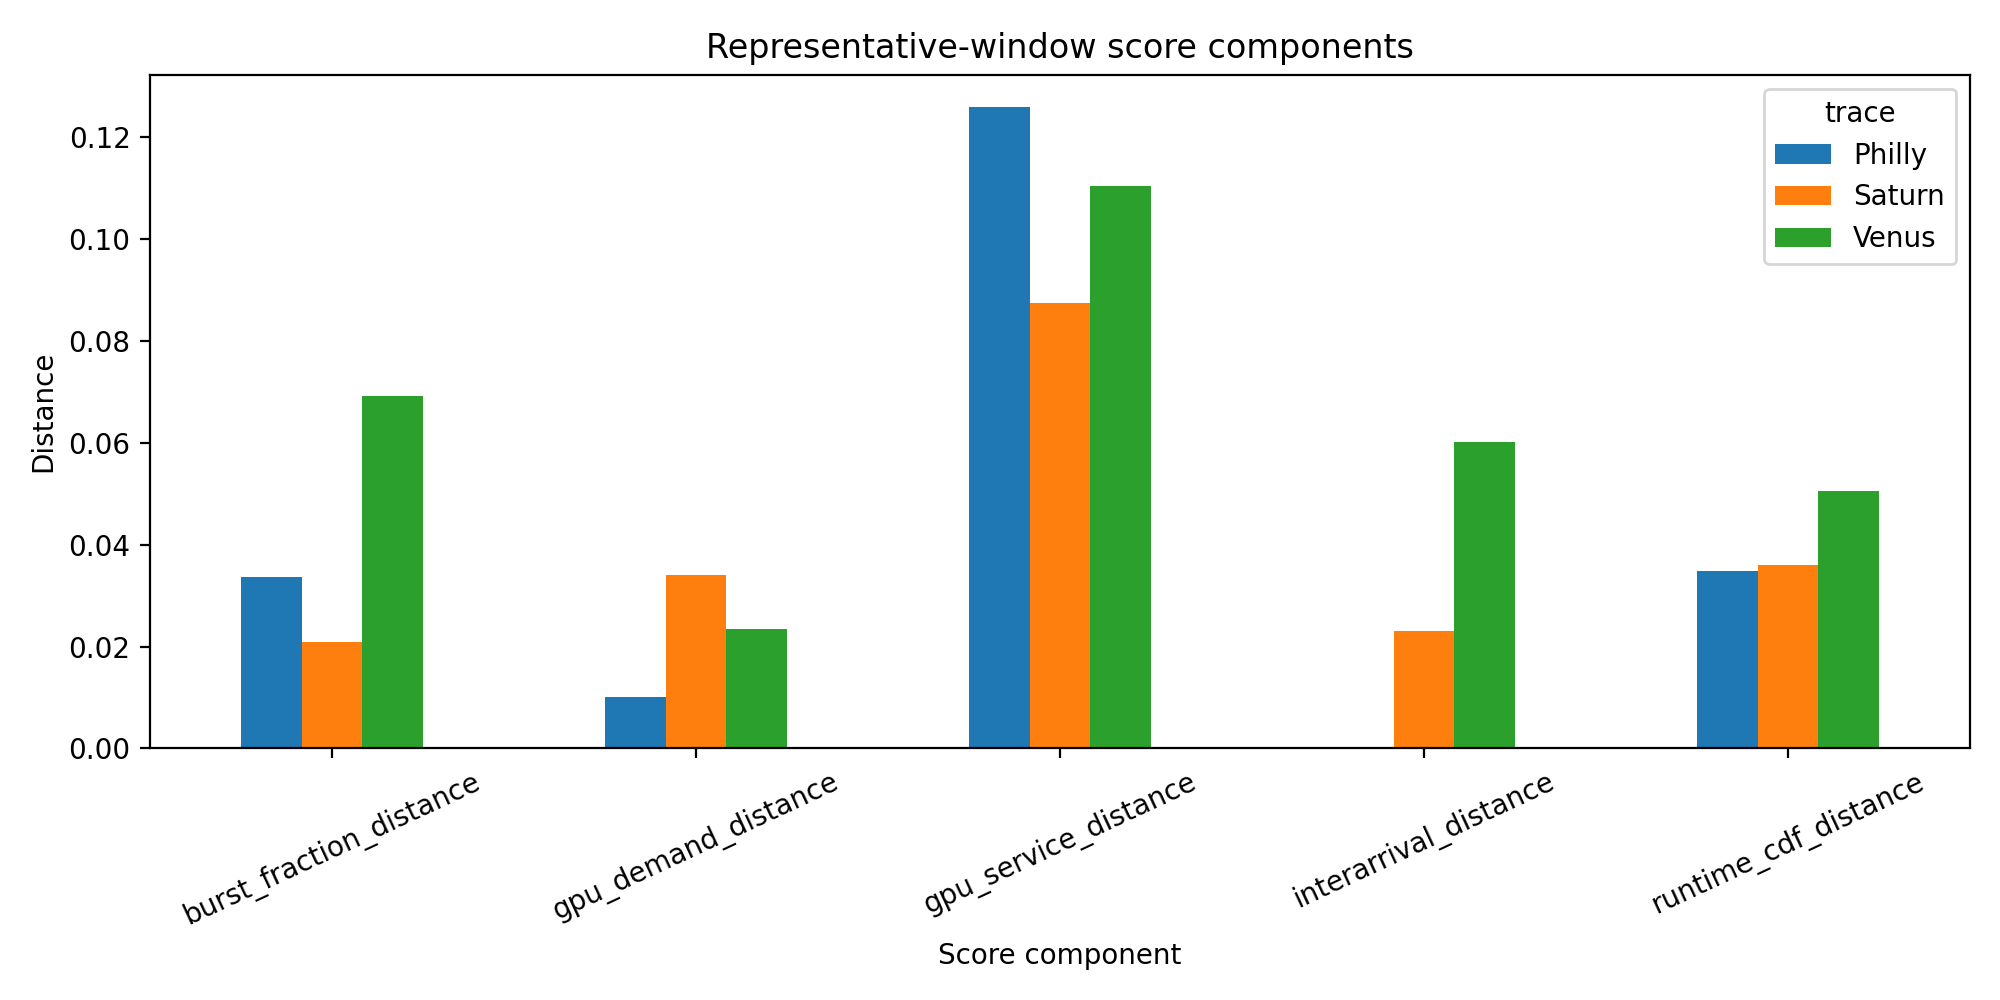
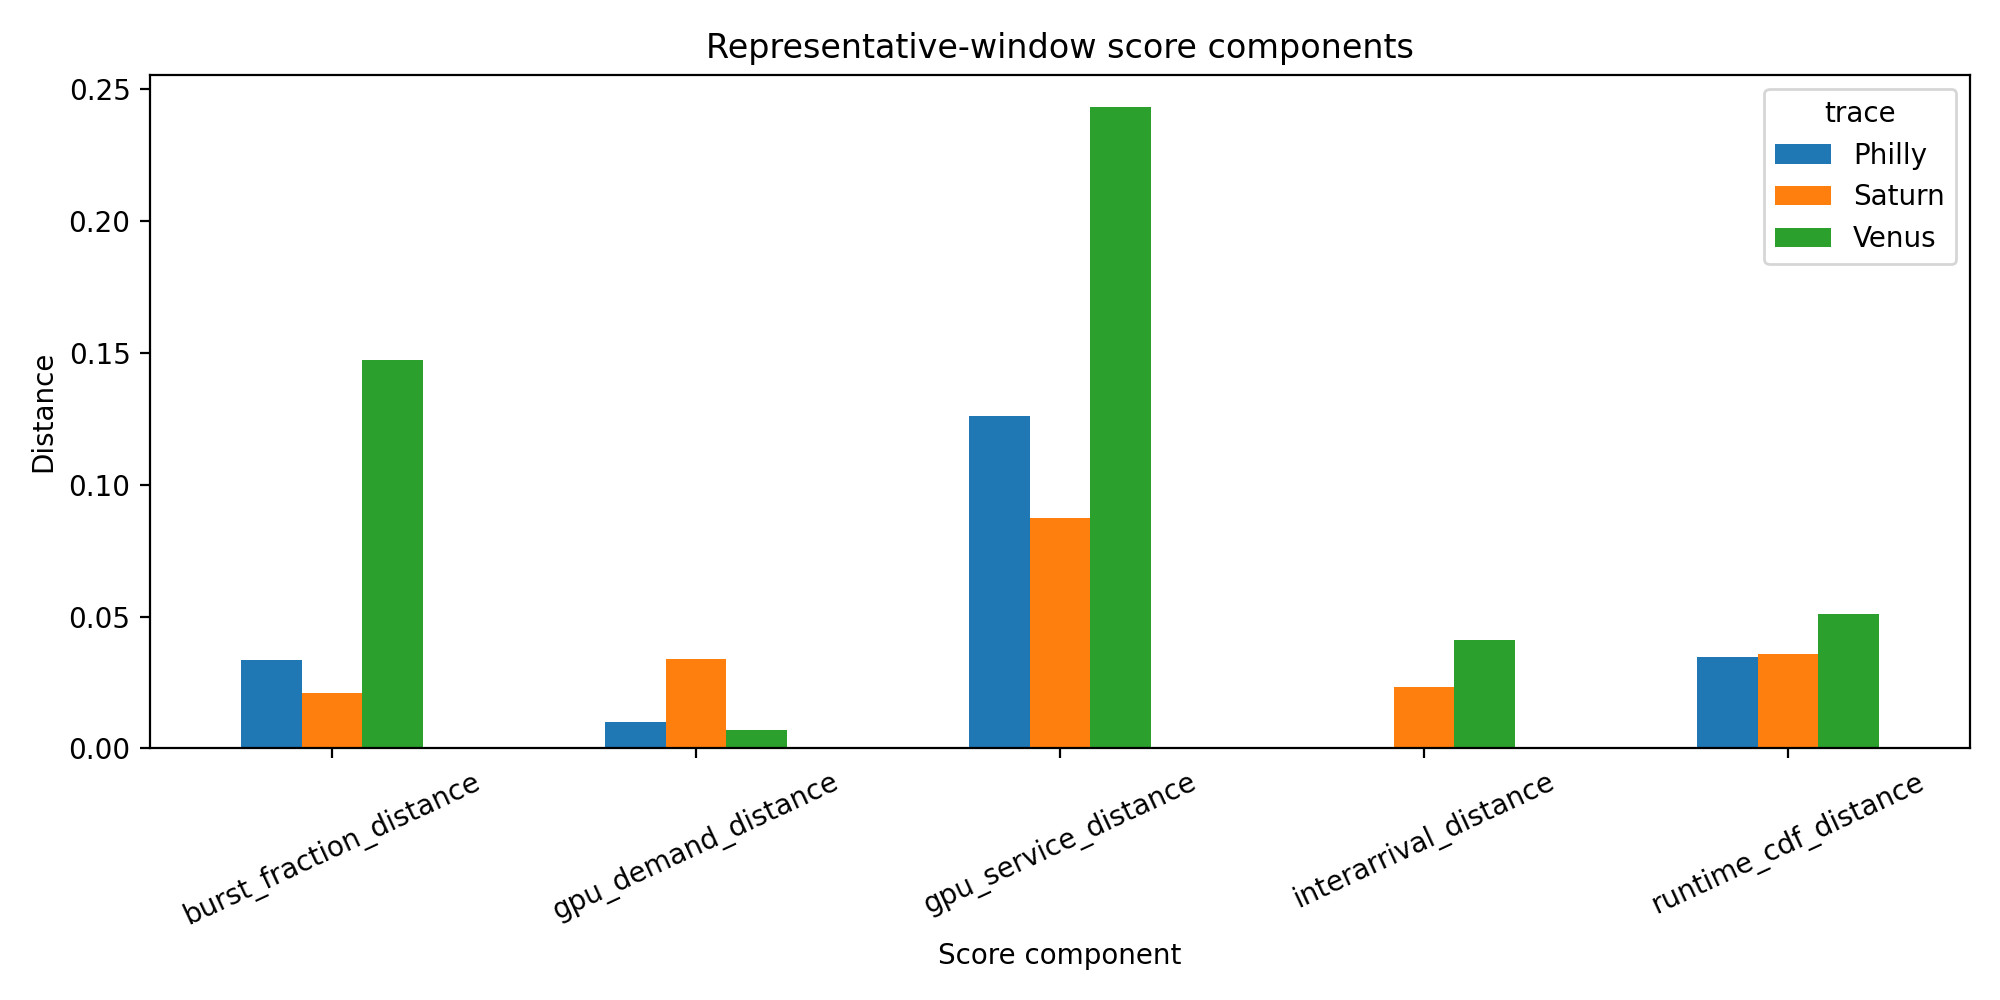
feat(pipeline): publish portable representative trace evidence

diff --git a/src/trace_mapper/pipeline.py b/src/trace_mapper/pipeline.py
@@ -52,6 +52,22 @@ def _resolve_path(root_dir: Path, value: str | Path) -> Path:
     return (root_dir / path).resolve()
 
 
+def _portable_path(
+    path: Path,
+    *,
+    root_dir: Path,
+) -> str:
+    resolved_path = path.resolve()
+    resolved_root = root_dir.resolve()
+
+    try:
+        return resolved_path.relative_to(
+            resolved_root
+        ).as_posix()
+    except ValueError:
+        return resolved_path.name
+    
+
 def load_pipeline_config(config_path: Path) -> dict[str, Any]:
     config_path = config_path.resolve()
 
@@ -503,14 +519,22 @@ def run_pipeline(config_path: Path) -> dict[str, Any]:
     )
 
     pipeline_summary = {
-        "pipeline_config": str(
-            config["config_path"]
+        "pipeline_config": _portable_path(
+            config["config_path"],
+            root_dir=root_dir,
         ),
-        "root_dir": str(root_dir),
-        "catalog_path": str(catalog_path),
+        "root_dir": ".",
+        "catalog_path": _portable_path(
+            catalog_path,
+            root_dir=root_dir,
+        ),
         "catalog_workload_count": int(len(catalog)),
         "manifest_paths": [
-            str(path) for path in manifest_paths
+            _portable_path(
+                path,
+                root_dir=root_dir,
+            )
+            for path in manifest_paths
         ],
         "validation": validation_result,
     }

diff --git a/README.md b/README.md
@@ -92,3 +92,51 @@ python -m compileall -q src tests
 ## Scope
 
 The included configurations target server-level experiments with 1-GPU and 2-GPU jobs. Larger GPU demands can be enabled when the workload catalog and target testbed support them. Exclusive-execution results are planning estimates, not measured scheduler outcomes.
+
+
+## One-Command Workflow
+
+Copy the public pipeline template to a machine-specific local configuration:
+
+```bash
+cp \
+  examples/configs/full_pipeline.example.yaml \
+  examples/configs/full_pipeline.local.yaml
+```
+
+Edit `examples/configs/full_pipeline.local.yaml` and set:
+
+- the one-GPU and two-GPU solo-profile CSV paths;
+- the workload project root;
+- any machine-specific input paths.
+
+Then run the complete workflow:
+
+```bash
+trace-mapper run-pipeline \
+  --config examples/configs/full_pipeline.local.yaml
+```
+
+The pipeline:
+
+1. builds the workload catalog from solo profiling results;
+2. characterizes the configured production traces;
+3. selects representative Philly, Saturn, and Venus windows;
+4. maps source jobs to executable workloads;
+5. generates per-trace and cross-trace reports;
+6. creates fidelity figures and machine-readable CSV artifacts;
+7. validates job count, runtime-CDF fidelity, GPU-demand fidelity, and 2-GPU workload coverage.
+
+The local pipeline configuration is intentionally ignored by Git because it may contain machine-specific absolute paths. Commit only `examples/configs/full_pipeline.example.yaml`.
+
+## Trace Evaluation Evidence
+
+The generated documentation exposes the complete evidence chain used to validate the traces:
+
+- [Production trace characterization](docs/trace_characterization.md)
+- [Generated trace comparison](docs/generated_traces/generated_trace_comparison.md)
+- [Representative trace fidelity](docs/generated_traces/representative_fidelity.md)
+- [Pipeline validation summary](docs/generated_traces/pipeline_summary.json)
+- [Raw trace sources and citations](data/README.md)
+
+The fidelity report compares each full eligible source population with its selected 60-job window and mapped executable trace. It reports GPU-demand proportions, runtime-CDF buckets, interarrival behavior, representativeness scores, and suite-level coverage of the available 2-GPU workloads.

diff --git a/docs/generated_traces/representative_fidelity.md b/docs/generated_traces/representative_fidelity.md
@@ -8,7 +8,7 @@ This report compares each full eligible production population, selected source w
 |---|---:|---:|---:|---:|---:|---:|---:|
 | Philly | 0.0353 | 1.01% | 3.48% | 7.68% | 16.02% | 2 | 2 |
 | Saturn | 0.0399 | 3.40% | 3.60% | 6.92% | 43.31% | 4 | 3 |
-| Venus | 0.0557 | 2.35% | 5.07% | 11.83% | 36.50% | 2 | 2 |
+| Venus | 0.0717 | 0.68% | 5.10% | 8.17% | 36.50% | 3 | 3 |
 
 ## GPU-Demand Fidelity
 
@@ -31,7 +31,7 @@ This report compares each full eligible production population, selected source w
 | Workload | Covered | Traces |
 |---|---:|---|
 | gpt2_large_wiki_bs8_2gpu | Yes | Philly,Saturn,Venus |
-| xlnet_base_cased_wiki_bs8_2gpu | Yes | Saturn |
+| xlnet_base_cased_wiki_bs8_2gpu | Yes | Saturn,Venus |
 | xlnet_large_cased_wiki_bs4_2gpu | Yes | Philly,Saturn,Venus |
 
 Selected-window fidelity is evaluated against the corresponding completed 1–2 GPU source population. Mapped-runtime differences are reported separately because the executable workload catalog may have a narrower runtime range than the production trace.

diff --git a/docs/generated_traces/generated_trace_comparison.md b/docs/generated_traces/generated_trace_comparison.md
@@ -6,7 +6,7 @@ This report is generated by `trace-mapper report-generation-suite` from the mapp
 |---|---:|---:|---:|---:|---:|---:|---:|---:|---:|
 | Philly | 60 | 58 | 2 | 52 | 2.61 h | 11.70 h | 480.15 min | 503.61 min | 0.0097 |
 | Saturn | 60 | 56 | 4 | 53 | 0.67 h | 12.96 h | 605.27 min | 674.16 min | 0.0100 |
-| Venus | 60 | 58 | 2 | 52 | 4.51 h | 12.25 h | 430.11 min | 443.39 min | 0.0097 |
+| Venus | 60 | 57 | 3 | 53 | 5.23 h | 12.22 h | 393.10 min | 403.74 min | 0.0102 |
 
 ## Exclusive Makespan
 
